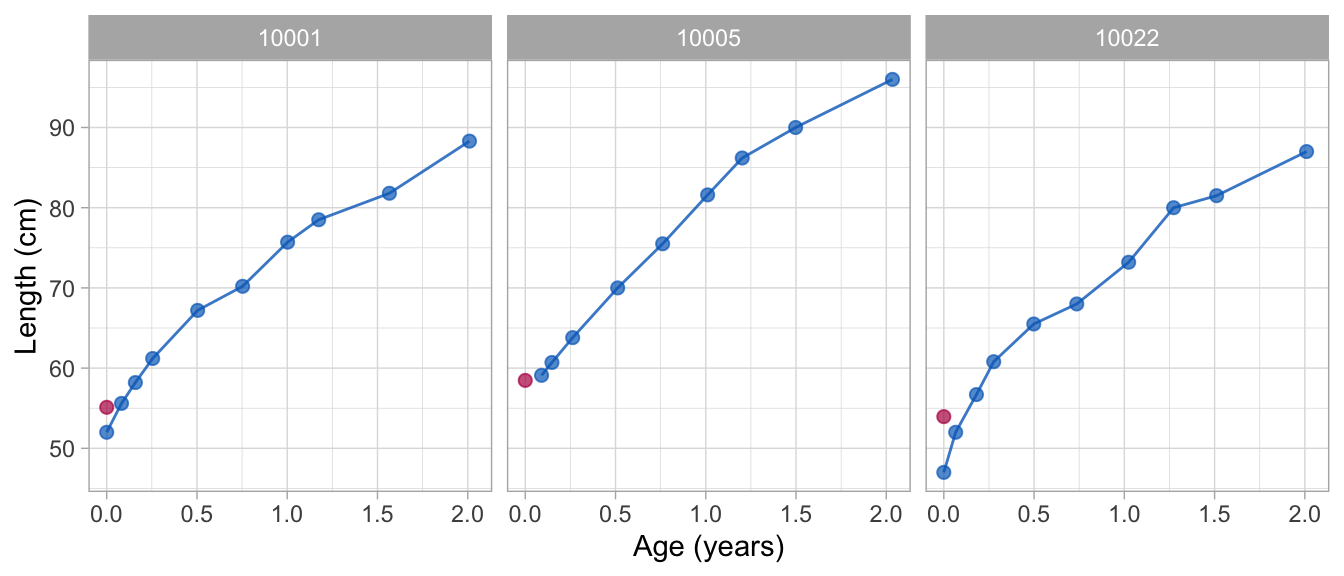
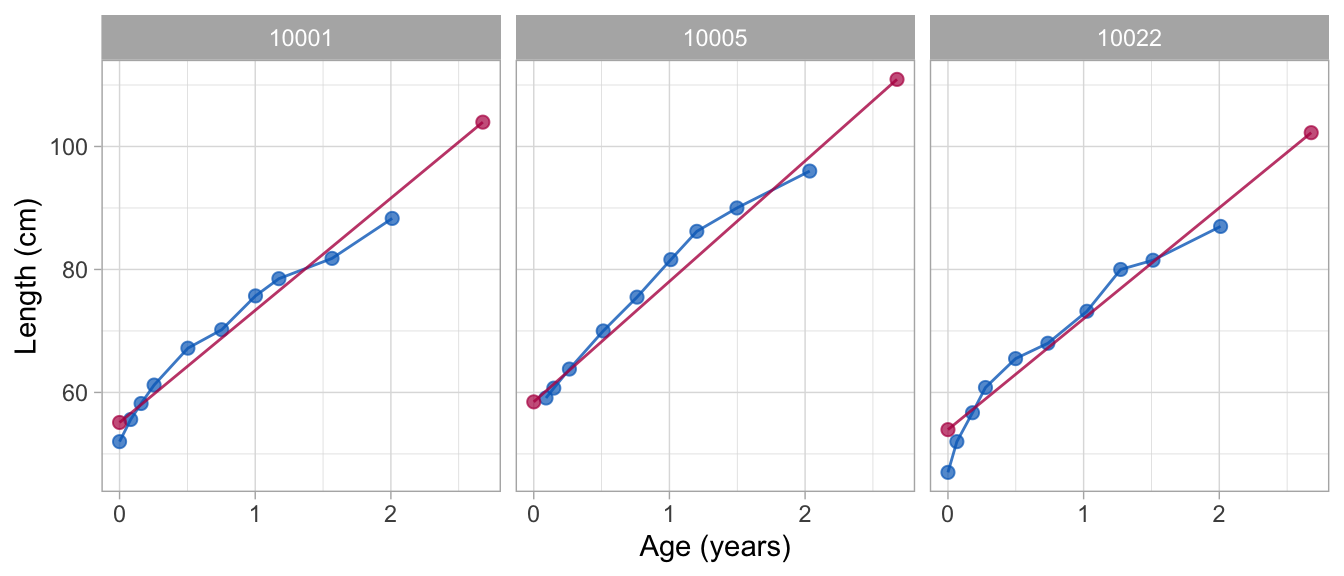
Remove warning, add what = "all" to 1-line model plot

diff --git a/docs/articles/mainfunctions.html b/docs/articles/mainfunctions.html
@@ -158,25 +158,14 @@ img {
 <div class="sourceCode" id="cb5"><pre class="downlit">
 <span class="va">fit</span> <span class="op">&lt;-</span> <span class="fu"><a href="../reference/brokenstick.html">brokenstick</a></span><span class="op">(</span><span class="va">hgt</span> <span class="op">~</span> <span class="va">age</span> <span class="op">|</span> <span class="va">id</span>, <span class="va">data</span><span class="op">)</span>
 <span class="va">ids</span> <span class="op">&lt;-</span> <span class="fu"><a href="https://rdrr.io/r/base/c.html">c</a></span><span class="op">(</span><span class="fl">10001</span>, <span class="fl">10005</span>, <span class="fl">10022</span><span class="op">)</span>
-<span class="fu"><a href="https://rdrr.io/r/graphics/plot.default.html">plot</a></span><span class="op">(</span><span class="va">fit</span>, new_data <span class="op">=</span> <span class="va">data</span>, group <span class="op">=</span> <span class="va">ids</span>, 
+<span class="fu"><a href="https://rdrr.io/r/graphics/plot.default.html">plot</a></span><span class="op">(</span><span class="va">fit</span>, new_data <span class="op">=</span> <span class="va">data</span>, group <span class="op">=</span> <span class="va">ids</span>, what <span class="op">=</span> <span class="st">"all"</span>,
      xlab <span class="op">=</span> <span class="st">"Age (years)"</span>, ylab <span class="op">=</span> <span class="st">"Length (cm)"</span><span class="op">)</span></pre></div>
-<pre><code>## geom_path: Each group consists of only one observation. Do you need to adjust
-## the group aesthetic?
-## geom_path: Each group consists of only one observation. Do you need to adjust
-## the group aesthetic?
-## geom_path: Each group consists of only one observation. Do you need to adjust
-## the group aesthetic?</code></pre>
 <p><img src="mainfunctions_files/figure-html/figure1-1.png" width="672"></p>
 <p>The following plot displays the same data, but in standardised units so as to increase the analytic resolution:</p>
-<div class="sourceCode" id="cb7"><pre class="downlit">
+<div class="sourceCode" id="cb6"><pre class="downlit">
 <span class="va">fit0</span> <span class="op">&lt;-</span> <span class="fu"><a href="../reference/brokenstick.html">brokenstick</a></span><span class="op">(</span><span class="va">hgt.z</span> <span class="op">~</span> <span class="va">age</span> <span class="op">|</span> <span class="va">id</span>, <span class="va">data</span><span class="op">)</span>
-<span class="fu"><a href="https://rdrr.io/r/graphics/plot.default.html">plot</a></span><span class="op">(</span><span class="va">fit0</span>, new_data <span class="op">=</span> <span class="va">data</span>, group <span class="op">=</span> <span class="va">ids</span>, xlab <span class="op">=</span> <span class="st">"Age (years)"</span>, ylab <span class="op">=</span> <span class="st">"Length (SDS)"</span><span class="op">)</span></pre></div>
-<pre><code>## geom_path: Each group consists of only one observation. Do you need to adjust
-## the group aesthetic?
-## geom_path: Each group consists of only one observation. Do you need to adjust
-## the group aesthetic?
-## geom_path: Each group consists of only one observation. Do you need to adjust
-## the group aesthetic?</code></pre>
+<span class="fu"><a href="https://rdrr.io/r/graphics/plot.default.html">plot</a></span><span class="op">(</span><span class="va">fit0</span>, new_data <span class="op">=</span> <span class="va">data</span>, group <span class="op">=</span> <span class="va">ids</span>, what <span class="op">=</span> <span class="st">"all"</span>, 
+     xlab <span class="op">=</span> <span class="st">"Age (years)"</span>, ylab <span class="op">=</span> <span class="st">"Length (SDS)"</span><span class="op">)</span></pre></div>
 <p><img src="mainfunctions_files/figure-html/zscore-1.png" width="672"></p>
 <p>Note that both approximations are quite bad.</p>
 </div>
@@ -184,16 +173,13 @@ img {
 <h2 class="hasAnchor">
 <a href="#fit-broken-stick-model-with-two-lines" class="anchor"></a>Fit broken stick model with two lines</h2>
 <p>The <em>broken stick model</em> describes a trajectory by a series of connected straight lines. We first calculate a model with two connected lines. The first line starts at birth and end at the age of exactly 1 years. The second line spans the period between 1 to 2 years. In addition, the lines must connect at the age of 1 year. We estimate and plot the model as follows:</p>
-<div class="sourceCode" id="cb9"><pre class="downlit">
-<span class="va">fit2</span> <span class="op">&lt;-</span> <span class="fu"><a href="../reference/brokenstick.html">brokenstick</a></span><span class="op">(</span><span class="va">hgt.z</span> <span class="op">~</span> <span class="va">age</span> <span class="op">|</span> <span class="va">id</span>, data <span class="op">=</span> <span class="va">data</span>, knots <span class="op">=</span> <span class="fl">0</span><span class="op">:</span><span class="fl">3</span><span class="op">)</span></pre></div>
-<pre><code>## Warning in checkConv(attr(opt, "derivs"), opt$par, ctrl = control$checkConv, :
-## Model failed to converge with max|grad| = 0.00772396 (tol = 0.002, component 1)</code></pre>
-<div class="sourceCode" id="cb11"><pre class="downlit">
+<div class="sourceCode" id="cb7"><pre class="downlit">
+<span class="va">fit2</span> <span class="op">&lt;-</span> <span class="fu"><a href="../reference/brokenstick.html">brokenstick</a></span><span class="op">(</span><span class="va">hgt.z</span> <span class="op">~</span> <span class="va">age</span> <span class="op">|</span> <span class="va">id</span>, data <span class="op">=</span> <span class="va">data</span>, knots <span class="op">=</span> <span class="fl">0</span><span class="op">:</span><span class="fl">3</span><span class="op">)</span>
 <span class="fu"><a href="https://rdrr.io/r/graphics/plot.default.html">plot</a></span><span class="op">(</span><span class="va">fit2</span>, <span class="va">data</span>, group <span class="op">=</span> <span class="va">ids</span>, xlim <span class="op">=</span> <span class="fu"><a href="https://rdrr.io/r/base/c.html">c</a></span><span class="op">(</span><span class="fl">0</span>, <span class="fl">2.1</span><span class="op">)</span>, 
      xlab <span class="op">=</span> <span class="st">"Age (years)"</span>, ylab <span class="op">=</span> <span class="st">"Length (SDS)"</span><span class="op">)</span></pre></div>
 <p><img src="mainfunctions_files/figure-html/plotfit2-1.png" width="672"></p>
 <p>The <code>fit2</code> object holds the parameter estimates of the model:</p>
-<div class="sourceCode" id="cb12"><pre class="downlit">
+<div class="sourceCode" id="cb8"><pre class="downlit">
 <span class="va">fit2</span></pre></div>
 <pre><code>## Class: brokenstick (lmer)
 ## Knots: 0 1 2 3 
@@ -211,7 +197,7 @@ img {
 <h2 class="hasAnchor">
 <a href="#extend-to-nine-lines" class="anchor"></a>Extend to nine lines</h2>
 <p>The plot shows that the two-line model is still fairly crude. We refine the model in the first two years by adding a knot for each age at which a visit was scheduled. This model can be run as</p>
-<div class="sourceCode" id="cb14"><pre class="downlit">
+<div class="sourceCode" id="cb10"><pre class="downlit">
 <span class="va">knots</span> <span class="op">&lt;-</span> <span class="fu"><a href="https://rdrr.io/r/base/Round.html">round</a></span><span class="op">(</span><span class="fu"><a href="https://rdrr.io/r/base/c.html">c</a></span><span class="op">(</span><span class="fl">0</span>, <span class="fl">1</span>, <span class="fl">2</span>, <span class="fl">3</span>, <span class="fl">6</span>, <span class="fl">9</span>, <span class="fl">12</span>, <span class="fl">15</span>, <span class="fl">18</span>, <span class="fl">24</span><span class="op">)</span><span class="op">/</span><span class="fl">12</span>, <span class="fl">4</span><span class="op">)</span>
 <span class="va">fit9</span> <span class="op">&lt;-</span> <span class="fu"><a href="../reference/brokenstick.html">brokenstick</a></span><span class="op">(</span><span class="va">hgt.z</span> <span class="op">~</span> <span class="va">age</span> <span class="op">|</span> <span class="va">id</span>, data <span class="op">=</span> <span class="va">data</span>, 
                     knots <span class="op">=</span> <span class="va">knots</span>, boundary <span class="op">=</span> <span class="fu"><a href="https://rdrr.io/r/base/c.html">c</a></span><span class="op">(</span><span class="fl">0</span>, <span class="fl">3</span><span class="op">)</span><span class="op">)</span></pre></div>
@@ -223,7 +209,7 @@ img {
 <h2 class="hasAnchor">
 <a href="#obtain-predicted-values" class="anchor"></a>Obtain predicted values</h2>
 <p>The <code><a href="https://rdrr.io/r/stats/predict.html">predict()</a></code> function allows us to obtain various types of predictions from the broken stick model. The simplest call</p>
-<div class="sourceCode" id="cb15"><pre class="downlit">
+<div class="sourceCode" id="cb11"><pre class="downlit">
 <span class="va">p1</span> <span class="op">&lt;-</span> <span class="fu"><a href="https://rdrr.io/r/stats/predict.html">predict</a></span><span class="op">(</span><span class="va">fit2</span>, <span class="va">data</span><span class="op">)</span>
 <span class="fu"><a href="https://rdrr.io/r/utils/head.html">head</a></span><span class="op">(</span><span class="va">p1</span><span class="op">)</span></pre></div>
 <pre><code>##       .pred
@@ -233,12 +219,12 @@ img {
 ## 4 0.5251301
 ## 5 0.3457527
 ## 6 0.1664473</code></pre>
-<div class="sourceCode" id="cb17"><pre class="downlit">
+<div class="sourceCode" id="cb13"><pre class="downlit">
 <span class="fu"><a href="https://rdrr.io/r/base/identical.html">identical</a></span><span class="op">(</span><span class="fu"><a href="https://rdrr.io/r/base/nrow.html">nrow</a></span><span class="op">(</span><span class="va">data</span><span class="op">)</span>, <span class="fu"><a href="https://rdrr.io/r/base/nrow.html">nrow</a></span><span class="op">(</span><span class="va">p1</span><span class="op">)</span><span class="op">)</span></pre></div>
 <pre><code>## [1] TRUE</code></pre>
 <p>produces a <code>tibble</code> with the one column called <code>.pred</code> for each row in <code>data</code>. We can bind column <code>.pred</code> to <code>data</code> for further processing.</p>
 <p>Sometimes, we also want the prediction at the knot values, for example, to create graphs that contain observed and modelled trajectories. We obtain predictions at the knots by the special <code>x = "knots"</code> argument, e.g.</p>
-<div class="sourceCode" id="cb19"><pre class="downlit">
+<div class="sourceCode" id="cb15"><pre class="downlit">
 <span class="va">p2</span> <span class="op">&lt;-</span> <span class="fu"><a href="https://rdrr.io/r/stats/predict.html">predict</a></span><span class="op">(</span><span class="va">fit2</span>, <span class="va">data</span>, x <span class="op">=</span> <span class="st">"knots"</span><span class="op">)</span>
 <span class="fu"><a href="https://rdrr.io/r/utils/head.html">head</a></span><span class="op">(</span><span class="va">p2</span><span class="op">)</span></pre></div>
 <pre><code>## # A tibble: 6 x 9
@@ -250,13 +236,13 @@ img {
 ## 4 added   10001     3 &lt;NA&gt;     NA    NA    NA    NA -0.285 
 ## 5 added   10002     0 &lt;NA&gt;     NA    NA    NA    NA -0.220 
 ## 6 added   10002     1 &lt;NA&gt;     NA    NA    NA    NA -0.398</code></pre>
-<div class="sourceCode" id="cb21"><pre class="downlit">
+<div class="sourceCode" id="cb17"><pre class="downlit">
 <span class="fu"><a href="https://rdrr.io/r/base/nrow.html">nrow</a></span><span class="op">(</span><span class="va">p2</span><span class="op">)</span></pre></div>
 <pre><code>## [1] 800</code></pre>
 <p>The output is more verbose and includes the grid of knots for each child (<code>id</code>, <code>age</code>). The column <code>.source</code> is equal to <code>added</code> as rows are added to the data.</p>
 <p>Note there are also knots at ages 0.00 and 3.00 years. These are boundary knots, and added by the <code><a href="../reference/brokenstick.html">brokenstick()</a></code> function. By default, the boundary knots span the age range in the data. The estimate for the knot at the maximum age has no useful interpretation, and should be ignored.</p>
 <p>If we wish to obtain estimates at both the knots and the observed data use:</p>
-<div class="sourceCode" id="cb23"><pre class="downlit">
+<div class="sourceCode" id="cb19"><pre class="downlit">
 <span class="va">p3</span> <span class="op">&lt;-</span> <span class="fu"><a href="https://rdrr.io/r/stats/predict.html">predict</a></span><span class="op">(</span><span class="va">fit2</span>, <span class="va">data</span>, x <span class="op">=</span> <span class="st">"knots"</span>, strip_data <span class="op">=</span> <span class="cn">FALSE</span><span class="op">)</span>
 <span class="fu"><a href="https://rdrr.io/r/base/table.html">table</a></span><span class="op">(</span><span class="va">p3</span><span class="op">$</span><span class="va">.source</span><span class="op">)</span></pre></div>
 <pre><code>## 
@@ -268,11 +254,11 @@ img {
 <h2 class="hasAnchor">
 <a href="#explained-variance" class="anchor"></a>Explained variance</h2>
 <p>The proportion of the variance of the outcome explained by the two-line model is</p>
-<div class="sourceCode" id="cb25"><pre class="downlit">
+<div class="sourceCode" id="cb21"><pre class="downlit">
 <span class="fu"><a href="../reference/get_r2.html">get_r2</a></span><span class="op">(</span><span class="va">fit2</span>, <span class="va">data</span><span class="op">)</span></pre></div>
 <pre><code>## [1] 0.8498623</code></pre>
 <p>For the second model we get</p>
-<div class="sourceCode" id="cb27"><pre class="downlit">
+<div class="sourceCode" id="cb23"><pre class="downlit">
 <span class="fu"><a href="../reference/get_r2.html">get_r2</a></span><span class="op">(</span><span class="va">fit9</span>, <span class="va">data</span><span class="op">)</span></pre></div>
 <pre><code>## [1] 0.9747304</code></pre>
 <p>so the nine-line broken stick model explains about 97 percent of the variance of the height SDS.</p>
@@ -281,7 +267,7 @@ img {
 <h2 class="hasAnchor">
 <a href="#subject-level-analysis" class="anchor"></a>Subject level analysis</h2>
 <p>Suppose we are interest in knowing the effect of sex, gestational age and birth weight on the height SDS at the age of 2 years. This is an analysis at the subject level. Let us first extract the subject-level data with variables that vary over subjects only.</p>
-<div class="sourceCode" id="cb29"><pre class="downlit">
+<div class="sourceCode" id="cb25"><pre class="downlit">
 <span class="va">subj</span> <span class="op">&lt;-</span> <span class="va">data</span> <span class="op">%&gt;%</span>
   <span class="fu"><a href="https://dplyr.tidyverse.org/reference/select.html">select</a></span><span class="op">(</span><span class="va">id</span>, <span class="va">sex</span>, <span class="va">ga</span>, <span class="va">bw</span><span class="op">)</span> <span class="op">%&gt;%</span> 
   <span class="fu"><a href="https://dplyr.tidyverse.org/reference/group_by.html">group_by</a></span><span class="op">(</span><span class="va">id</span><span class="op">)</span> <span class="op">%&gt;%</span> 
@@ -295,7 +281,7 @@ img {
 ## 2 10002 male      38  3210
 ## 3 10003 female    40  4170</code></pre>
 <p>We also need the outcome variable. We take it from the broken stick estimates from the nine line solution and append it to the subject level data.</p>
-<div class="sourceCode" id="cb31"><pre class="downlit">
+<div class="sourceCode" id="cb27"><pre class="downlit">
 <span class="va">bs</span> <span class="op">&lt;-</span> <span class="fu"><a href="https://rdrr.io/r/stats/predict.html">predict</a></span><span class="op">(</span><span class="va">fit9</span>, <span class="va">data</span>, x <span class="op">=</span> <span class="st">"knots"</span>, shape <span class="op">=</span> <span class="st">"wide"</span><span class="op">)</span>
 <span class="va">data</span> <span class="op">&lt;-</span> <span class="fu"><a href="https://dplyr.tidyverse.org/reference/bind.html">bind_cols</a></span><span class="op">(</span><span class="va">subj</span>, <span class="fu"><a href="https://dplyr.tidyverse.org/reference/select.html">select</a></span><span class="op">(</span><span class="va">bs</span>, <span class="op">-</span><span class="va">id</span><span class="op">)</span><span class="op">)</span>
 <span class="fu"><a href="https://rdrr.io/r/utils/head.html">head</a></span><span class="op">(</span><span class="va">data</span>, <span class="fl">3</span><span class="op">)</span></pre></div>
@@ -309,7 +295,7 @@ img {
 ## # … with 4 more variables: `1.25` &lt;dbl&gt;, `1.5` &lt;dbl&gt;, `2` &lt;dbl&gt;, `3` &lt;dbl&gt;</code></pre>
 <p>The names of the columns in <code>bs</code> correspond to the knot values.</p>
 <p>The effect of the subject’s sex, gestational age and birth weight on the height SDS at the age of 2 years (here denoted by the variable named <code>2</code>) can be estimated as</p>
-<div class="sourceCode" id="cb33"><pre class="downlit">
+<div class="sourceCode" id="cb29"><pre class="downlit">
 <span class="va">fit1_lm</span> <span class="op">&lt;-</span> <span class="fu"><a href="https://rdrr.io/r/stats/lm.html">lm</a></span><span class="op">(</span><span class="va">`2`</span> <span class="op">~</span> <span class="va">sex</span> <span class="op">+</span> <span class="va">ga</span> <span class="op">+</span> <span class="fu"><a href="https://rdrr.io/r/base/AsIs.html">I</a></span><span class="op">(</span><span class="va">bw</span> <span class="op">/</span> <span class="fl">1000</span><span class="op">)</span>, data <span class="op">=</span> <span class="va">data</span><span class="op">)</span>
 <span class="fu"><a href="https://rdrr.io/r/base/summary.html">summary</a></span><span class="op">(</span><span class="va">fit1_lm</span><span class="op">)</span></pre></div>
 <pre><code>## 
@@ -333,7 +319,7 @@ img {
 ## Multiple R-squared:  0.07484,    Adjusted R-squared:  0.06068 
 ## F-statistic: 5.285 on 3 and 196 DF,  p-value: 0.001589</code></pre>
 <p>Note that the analysis shows there is a substantial effect of birth weight. Of course, it might be that birth weight is directly related to height at the age of 2 years. Alternatively, the relation could be mediated by birth length. The following model adds birth length (the variable named <code>0</code>) to the model:</p>
-<div class="sourceCode" id="cb35"><pre class="downlit">
+<div class="sourceCode" id="cb31"><pre class="downlit">
 <span class="va">fit2_lm</span> <span class="op">&lt;-</span> <span class="fu"><a href="https://rdrr.io/r/stats/lm.html">lm</a></span><span class="op">(</span><span class="va">`2`</span> <span class="op">~</span> <span class="va">sex</span> <span class="op">+</span> <span class="va">ga</span> <span class="op">+</span> <span class="fu"><a href="https://rdrr.io/r/base/AsIs.html">I</a></span><span class="op">(</span><span class="va">bw</span> <span class="op">/</span> <span class="fl">1000</span><span class="op">)</span> <span class="op">+</span> <span class="va">`0`</span>, data <span class="op">=</span> <span class="va">data</span><span class="op">)</span>
 <span class="fu"><a href="https://rdrr.io/r/base/summary.html">summary</a></span><span class="op">(</span><span class="va">fit2_lm</span><span class="op">)</span></pre></div>
 <pre><code>## 
